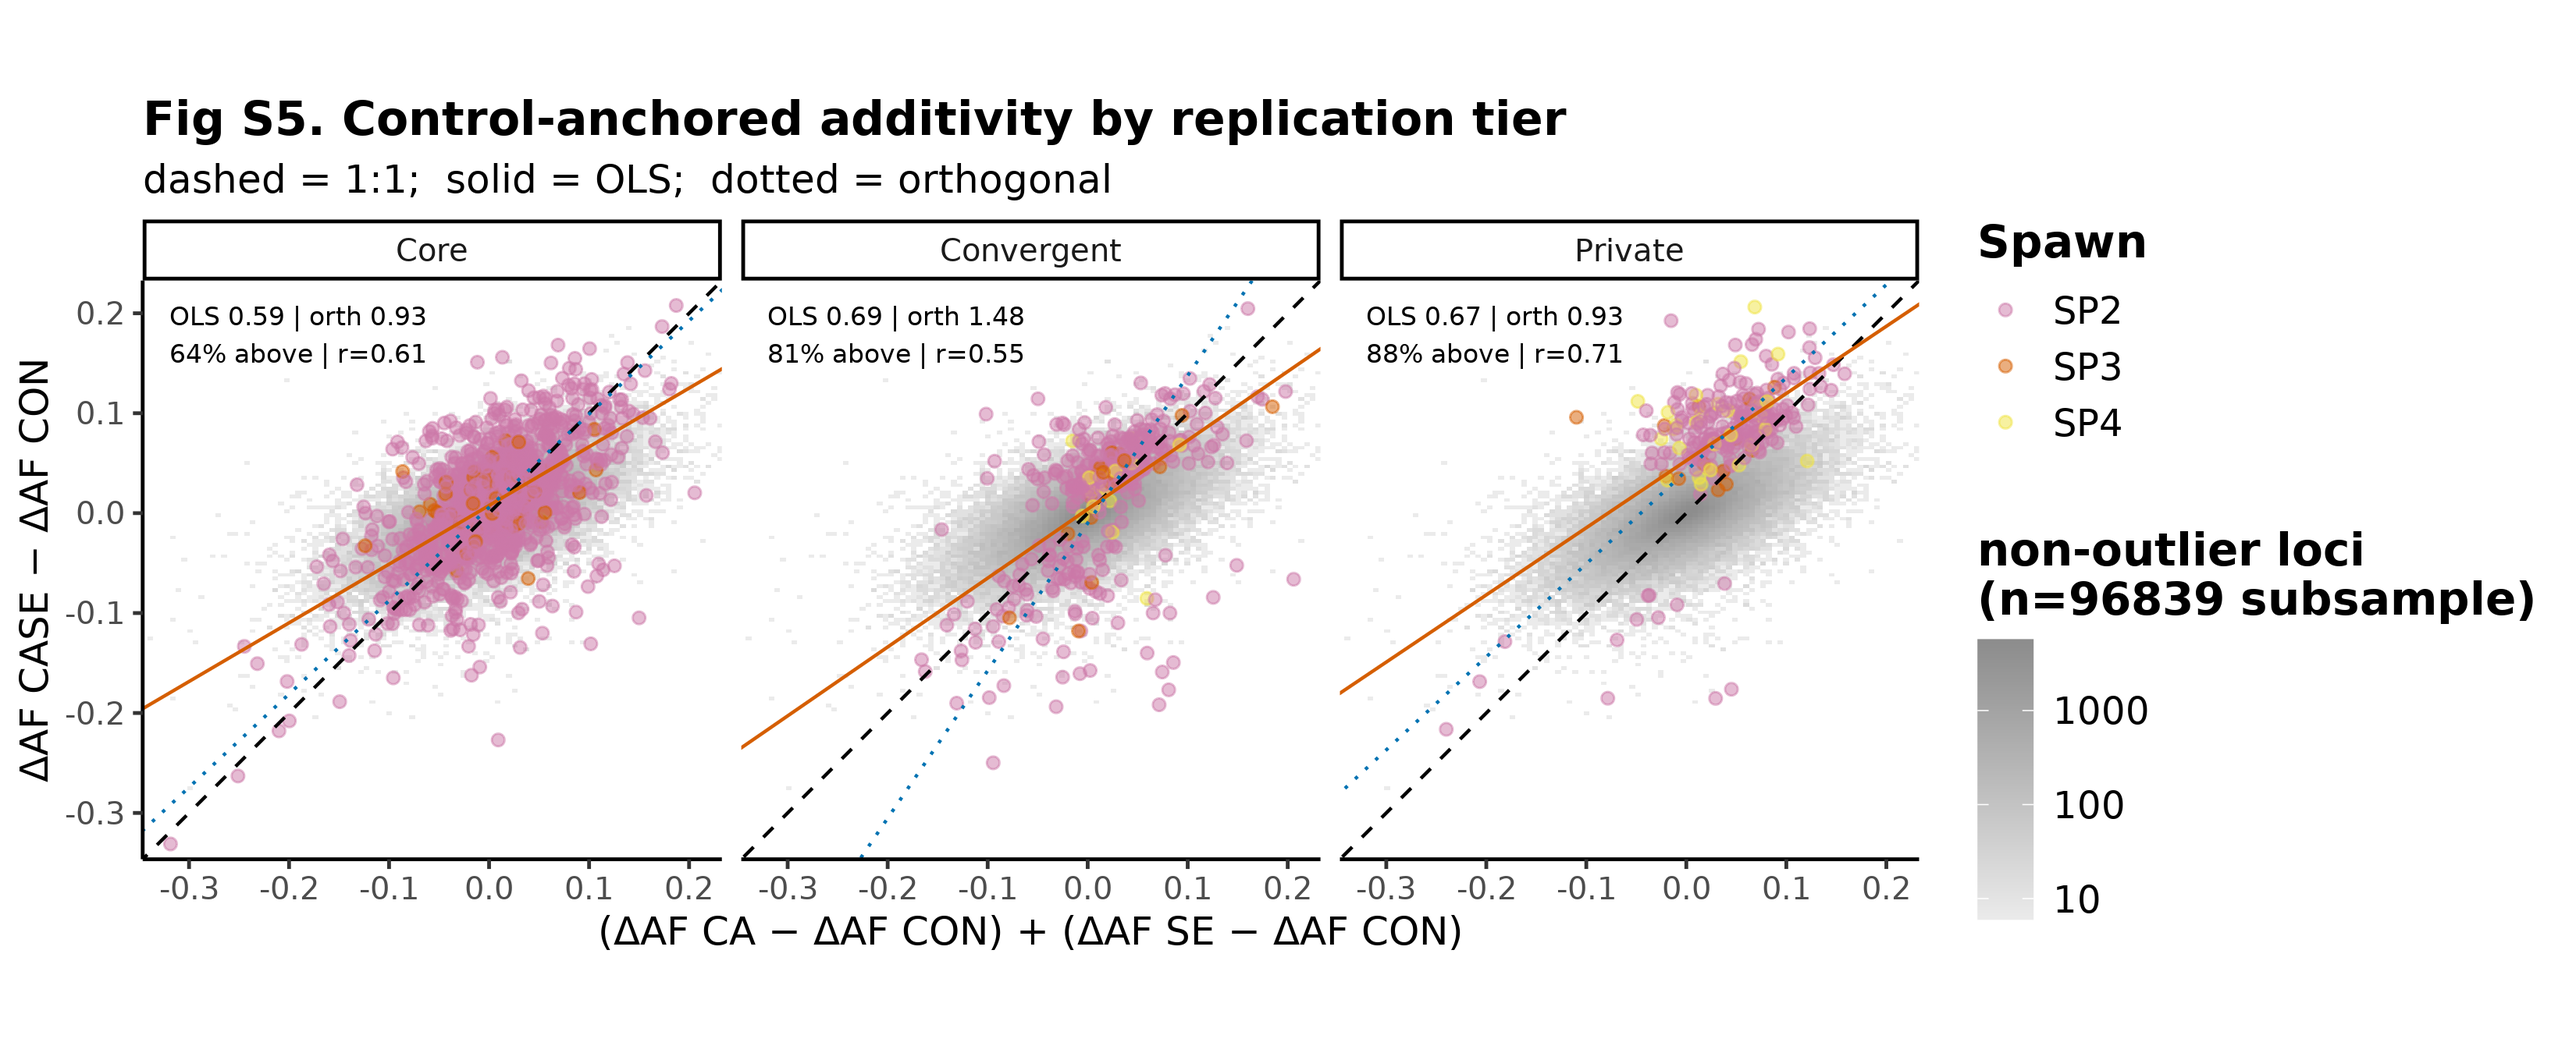
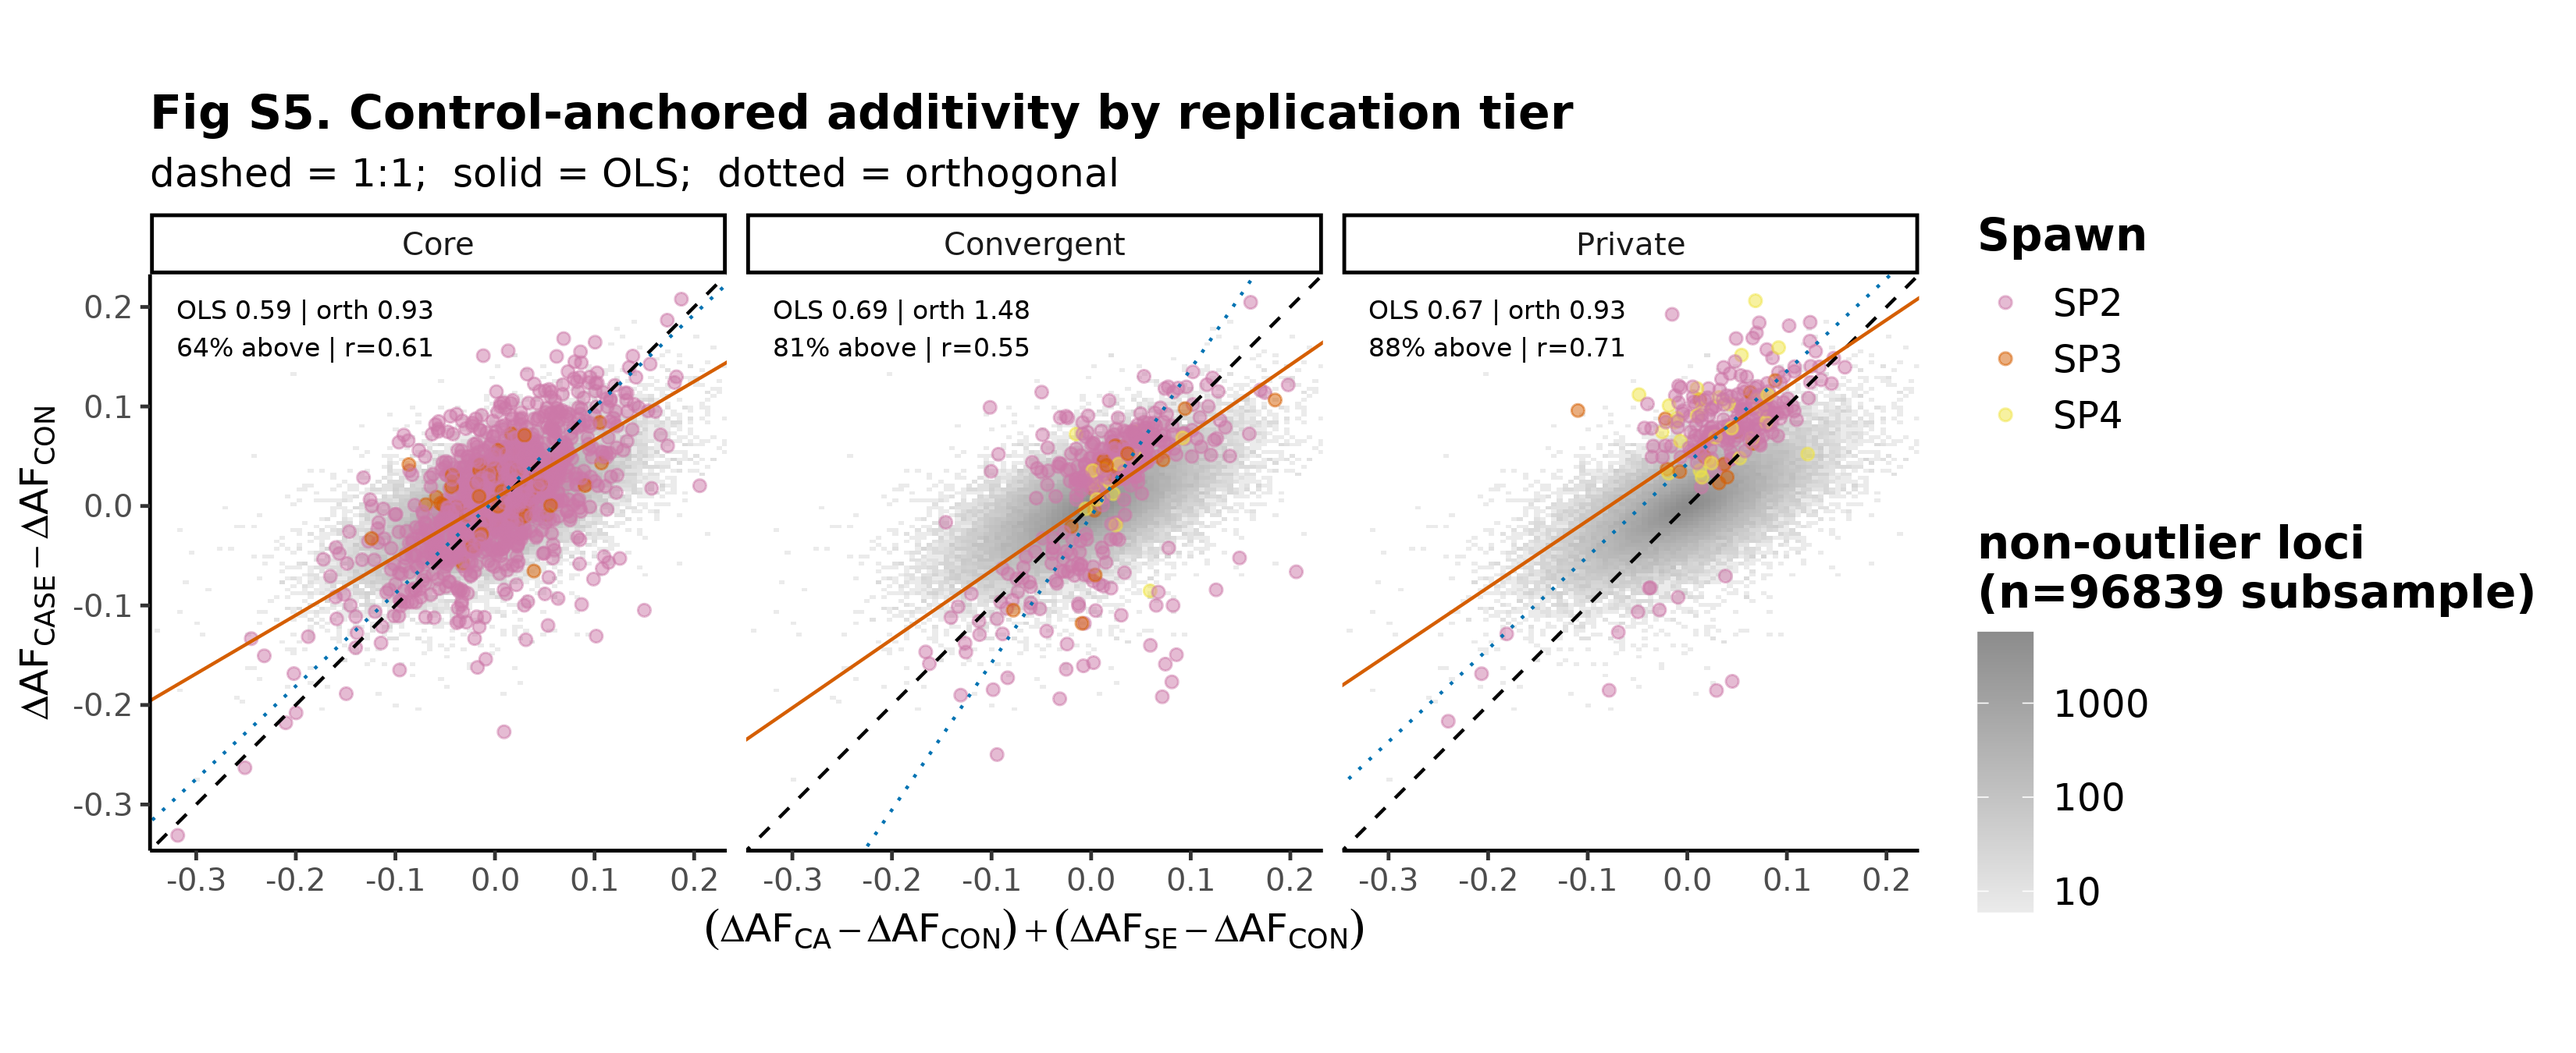
redo knitting with new block/spawn labels

diff --git a/analysis/Final_reproducible_analysis.md b/analysis/Final_reproducible_analysis.md
@@ -90,8 +90,8 @@ Jonathan Puritz
     tier](#fig-s5-additivity-scatter-faceted-by-replication-tier)
 - [Fig 4. Treatment-exclusive loci and functional
   enrichment](#fig-4-treatment-exclusive-loci-and-functional-enrichment)
-  - [4.1 Block-12 Manhattan, stacked across CA / SE /
-    CASE](#41-block-12-manhattan-stacked-across-ca--se--case)
+  - [4.1 Spawn SP4 (B12) Manhattan, stacked across CA / SE /
+    CASE](#41-spawn-sp4-b12-manhattan-stacked-across-ca--se--case)
   - [4.1b Per-spawn Manhattan stacks (SP2, SP3):
     supplement](#41b-per-spawn-manhattan-stacks-sp2-sp3-supplement)
   - [4.2 GO enrichment: custom plot from the TopGO
@@ -199,41 +199,55 @@ cbPaletteSmall5  <- c("#999999","#E69F00","#0072B2","#009E73")
 # The manuscript uses sequential spawn labels instead. The original numbering had an
 # unexplained gap (6, then 10-12) because only 4 of 12 attempted spawns met the
 # broodstock-provenance criterion; sequential labels avoid inviting that question.
+# The SP prefix (rather than a bare S) keeps spawn labels from colliding with the
+# supplementary figure and table numbering (Fig S1-S16, Table S1-S6).
 #
 #   DATA KEY   LABEL   SPAWN DATE     DATA COLLECTED
-#   B6         SP1      30 Aug 2016    phenotype only (not sequenced)
-#   B10        SP2      13 Jul 2017    phenotype + exome capture
-#   B11        SP3      24 Jul 2017    phenotype + exome capture
-#   B12        SP4      27 Jul 2017    phenotype + exome capture
+#   B6         SP1     30 Aug 2016    phenotype only (not sequenced)
+#   B10        SP2     13 Jul 2017    phenotype + exome capture
+#   B11        SP3     24 Jul 2017    phenotype + exome capture
+#   B12        SP4     27 Jul 2017    phenotype + exome capture
 #
 # Note SP2-SP4 are ALSO phenotyped; the only asymmetry is sequencing. This mapping is
-# reproduced as Table S6 in the Supporting Information (generated from this object in the
-# supp-tables chunk, so it cannot drift). Conversion happens at the point of display only:
-# facet labellers, scale labels, plot titles, and output filenames.
+# reproduced as Table S6 in the Supporting Information (generated from spawn_key2lab in
+# the supp-tables chunk, so it cannot drift). Conversion happens at the point of display
+# only: facet labellers, scale labels, plot titles, and output filenames.
+#
+# The supplemental Rmds keep the same definitions in analysis/spawn_labels.R. If the
+# mapping ever changes, update BOTH.
 spawn_key2lab <- c(B6 = "SP1", B10 = "SP2", B11 = "SP3", B12 = "SP4")
 
-# Accepts any form the data uses: 10, "10", "b10", "B10", "B06" -> returns "SP2", "SP1", ...
+# Accepts any form the data uses: 10, "10", "b10", "B10", "B06" -> "SP2", "SP1", ...
+# Vectorised, so it can be passed directly to ggplot2's `labels =` argument.
 spawn_lab <- function(x) {
   k <- toupper(as.character(x))
   k <- ifelse(grepl("^[0-9]+$", k), paste0("B", as.integer(k)), k)   # 10 / "10" -> "B10"
   k <- sub("^B0+", "B", k)                                           # "B06" -> "B6"
   unname(spawn_key2lab[k])
 }
-# Plain vectorised function for facet strips: facet_*(labeller = labeller(Block = spawn_labeller))
+# Facet strips: facet_*(labeller = labeller(Block = spawn_labeller))
 spawn_labeller <- function(x) spawn_lab(x)
 # All four spawns in manuscript order (phenotype figures); sequenced subset is SP2-SP4.
 spawn_lab_all  <- c("SP1","SP2","SP3","SP4")
 
 # spawn_levels stays on DATA KEYS: it indexes spawn_cols/spawn_shapes, pv_list, and the
 # per-block column suffixes in the sync files. spawn_labels is its display counterpart,
-# passed to `labels =` in the scales so legends read SP2/SP3/SP4.
+# NAMED so ggplot matches labels to breaks by name rather than by position.
 spawn_levels <- c("B10","B11","B12")
-# NAMED so ggplot matches labels to breaks by name, not by position: c(B10="SP2", ...).
 spawn_labels <- setNames(spawn_lab(spawn_levels), spawn_levels)
-# Spawn palette now reuses the Tier palette (Core/Convergent/Private colours),
+# Spawn palette reuses the Tier palette (Core/Convergent/Private colours),
 # repurposed 1:1 for B10/B11/B12 (= SP2/SP3/SP4).
 spawn_cols   <- c(B10="#CC79A7", B11="#D55E00", B12="#F0E442")
 spawn_shapes <- c(B10=21, B11=22, B12=23)
+# ---- ΔAF axis labels ------------------------------------------------------
+# Plotmath so the stressor renders as a true subscript (ΔAF_CASE), not inline text.
+# "AF" and the subscripts are quoted to keep them upright: plotmath italicises bare
+# symbols, which would render AF and CASE as variable names.
+lab_dAF_add       <- expression((Delta*"AF"["CA"] - Delta*"AF"["CON"]) + (Delta*"AF"["SE"] - Delta*"AF"["CON"]))
+lab_dAF_case      <- expression(Delta*"AF"["CASE"] - Delta*"AF"["CON"])
+lab_dAF_add_note  <- expression((Delta*"AF"["CA"] - Delta*"AF"["CON"]) + (Delta*"AF"["SE"] - Delta*"AF"["CON"]) ~~ "[additive expectation]")
+lab_dAF_case_note <- expression(Delta*"AF"["CASE"] - Delta*"AF"["CON"] ~~ "[combined response]")
+
 stat_cols    <- c(Observed="#D7191C", `CON baseline`="#999999", `Random null`="#4D4D4D")
 tier_levels  <- c("Core","Convergent","Private","Background")
 tier_cols    <- c(Core="#0072B2", Convergent="#E69F00", `Private`="#CC79A7", Background="grey80")
@@ -6416,7 +6430,8 @@ run_tier_pca <- function(sync_file, tier_label, out_prefix) {
                                 fill = Treatments, shape = as.factor(Population))) +
     geom_point(size = 10, color = "black", alpha = 0.5) +
     scale_fill_manual(values = cbPaletteSmall, name = "Treatment") +
-    scale_shape_manual(values = c(21, 22, 23), name = "Spawn") +
+    # Population holds the data keys B10-B12; spawn_lab relabels the legend to SP2-SP4.
+    scale_shape_manual(values = c(21, 22, 23), labels = spawn_lab, name = "Spawn") +
     guides(fill  = guide_legend(override.aes = list(shape = 21)),
            shape = guide_legend(override.aes = list(fill = cbPaletteSmall[4]))) +
     base_theme
@@ -6424,8 +6439,8 @@ run_tier_pca <- function(sync_file, tier_label, out_prefix) {
   p_spawn <- ggplot(pca_df, aes(x = PC1, y = PC2,
                                 fill = as.factor(Population), shape = as.factor(Population))) +
     geom_point(size = 10, color = "black", alpha = 0.5) +
-    scale_fill_manual(values = cbPaletteSmall, name = "Spawn") +
-    scale_shape_manual(values = c(21, 22, 23), name = "Spawn") +
+    scale_fill_manual(values = cbPaletteSmall, labels = spawn_lab, name = "Spawn") +
+    scale_shape_manual(values = c(21, 22, 23), labels = spawn_lab, name = "Spawn") +
     guides(fill  = guide_legend(override.aes = list(shape = 21, alpha = 1)),
            shape = "none") +
     base_theme
@@ -6667,8 +6682,8 @@ fig3 <- ggplot(mapping = aes(x, y)) +
   coord_equal(xlim = rng, ylim = rng) +
   # scale_x_continuous(expand=c(0,0), limits = rng) +
   # scale_y_continuous(expand=c(0,0), limits = rng) +
-  labs(x = "(ΔAF CA − ΔAF CON) + (ΔAF SE − ΔAF CON)   [additive expectation]",
-       y = "ΔAF CASE − ΔAF CON   [combined response]",
+  labs(x = lab_dAF_add_note,
+       y = lab_dAF_case_note,
        title = "Fig 3. Additivity of allele-frequency change",
        subtitle = "dashed = additive 1:1;  solid black = per-panel orthogonal fit;  grey = non-outlier subsample;  colour = spawn") +
   theme_case(12)
@@ -6828,7 +6843,7 @@ figS5 <- ggplot(add_pl_t, aes(x, y)) +
   geom_text(data = ann_t, aes(label = lab), x = rng_t[1], y = rng_t[2],
             hjust = 0, vjust = 1, size = 2.8, inherit.aes = FALSE) +
   facet_wrap(~ tier) + coord_equal(xlim = rng_t, ylim = rng_t) +
-  labs(x = "(ΔAF CA − ΔAF CON) + (ΔAF SE − ΔAF CON)", y = "ΔAF CASE − ΔAF CON",
+  labs(x = lab_dAF_add, y = lab_dAF_case,
        title = "Fig S5. Control-anchored additivity by replication tier",
        subtitle = "dashed = 1:1;  solid = OLS;  dotted = orthogonal") +
   theme_case(12)
@@ -6858,8 +6873,8 @@ ggplot(mapping = aes(x, y)) +
             hjust = 0, vjust = 1, size = 3, lineheight = 0.9, inherit.aes = FALSE) +
   facet_wrap(~ tier, nrow = 1) +
   coord_equal(xlim = rng, ylim = rng) +
-  labs(x = "(dCA − dCON) + (dSE − dCON)   [additive expectation]",
-       y = "dCASE − dCON   [combined response]",
+  labs(x = lab_dAF_add_note,
+       y = lab_dAF_case_note,
        title = "CASE-only additivity, faceted by locus replication tier",
        subtitle = "dashed = additive 1:1;  solid black = per-tier orthogonal fit;  grey = same 10,000-locus background;  colour = spawn") +
   theme_bw()
@@ -6869,7 +6884,7 @@ ggplot(mapping = aes(x, y)) +
 
 # Fig 4. Treatment-exclusive loci and functional enrichment
 
-## 4.1 Block-12 Manhattan, stacked across CA / SE / CASE
+## 4.1 Spawn SP4 (B12) Manhattan, stacked across CA / SE / CASE
 
 ``` r
 lighten_color <- function(col, factor = 0.5) {
@@ -7655,6 +7670,8 @@ figS14 <- (ggplot(he_null_dt, aes(treatment, z, fill = treatment)) +
                   x = NULL, y = "z") + theme_case(11) + theme(legend.position = "none")) /
            (ggplot(he_diag_dt, aes(treatment, pct_matched, fill = block)) +
              geom_col(position = "dodge") + facet_wrap(~ tier) +
+             # `block` holds data keys B10-B12; spawn_lab relabels the legend to SP2-SP4.
+             scale_fill_manual(values = spawn_cols, labels = spawn_lab, name = "Spawn") +
              labs(title = "Fig S14B. Matched-null retention (% of outliers with a shift-matched neutral)",
                   x = NULL, y = "% matched") + theme_case(11))
 save_supp(figS14, "FigS14_He_null_diagnostics.png", width = 9, height = 8)
